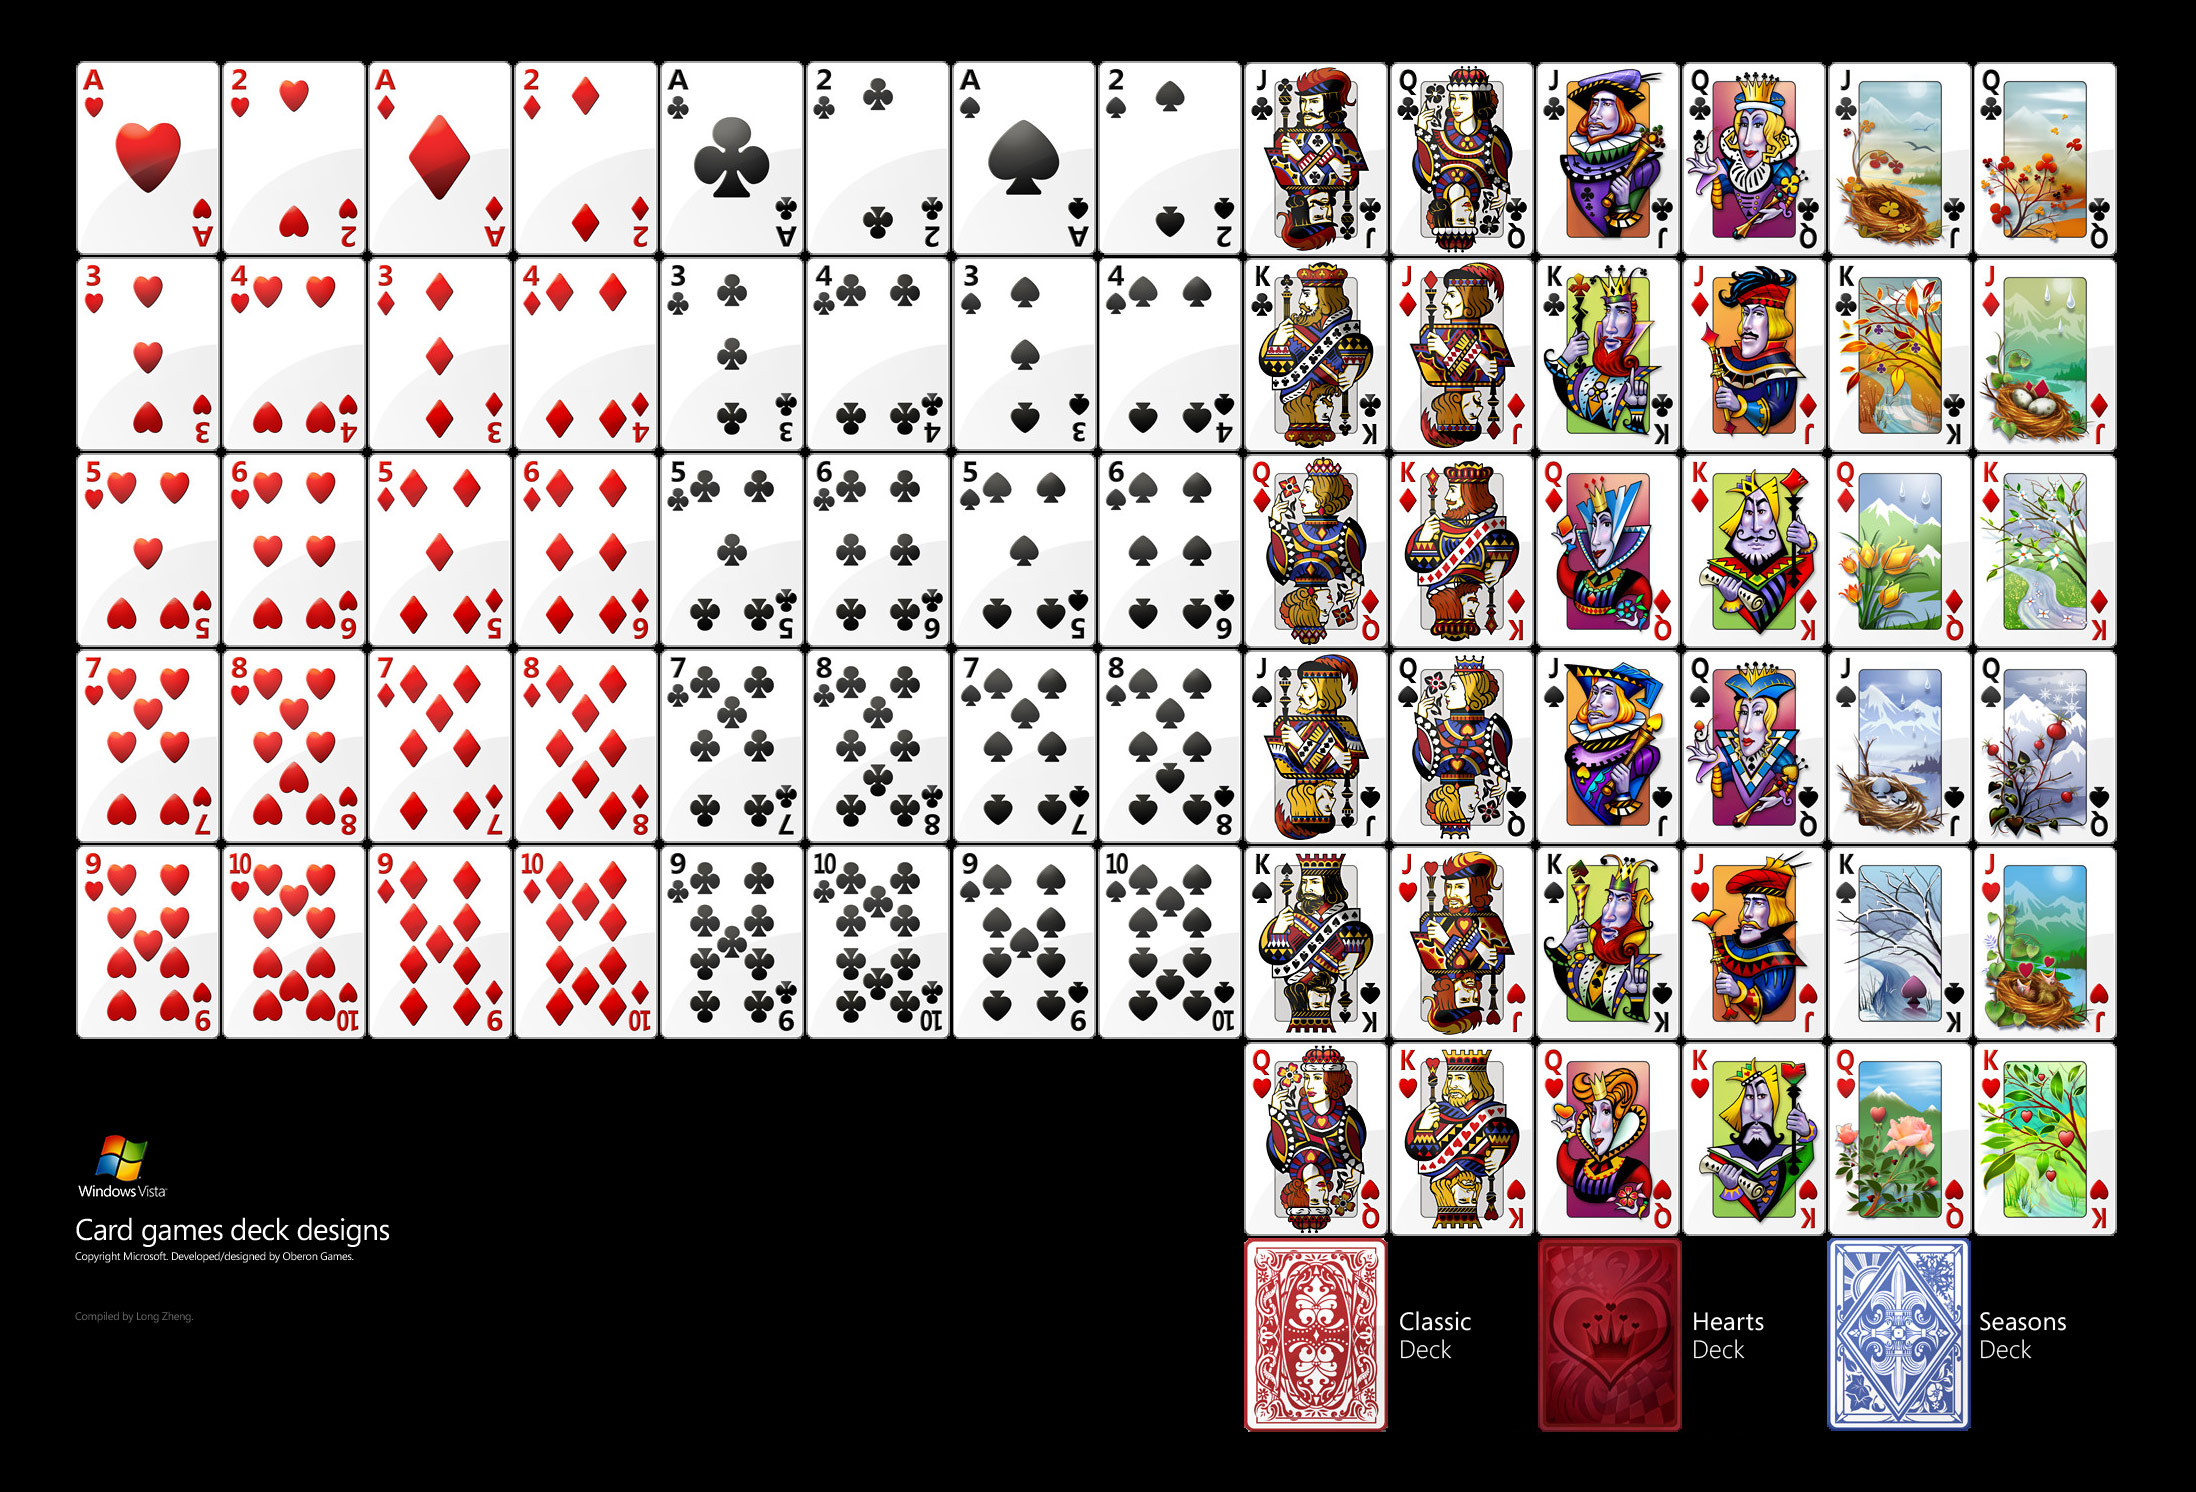
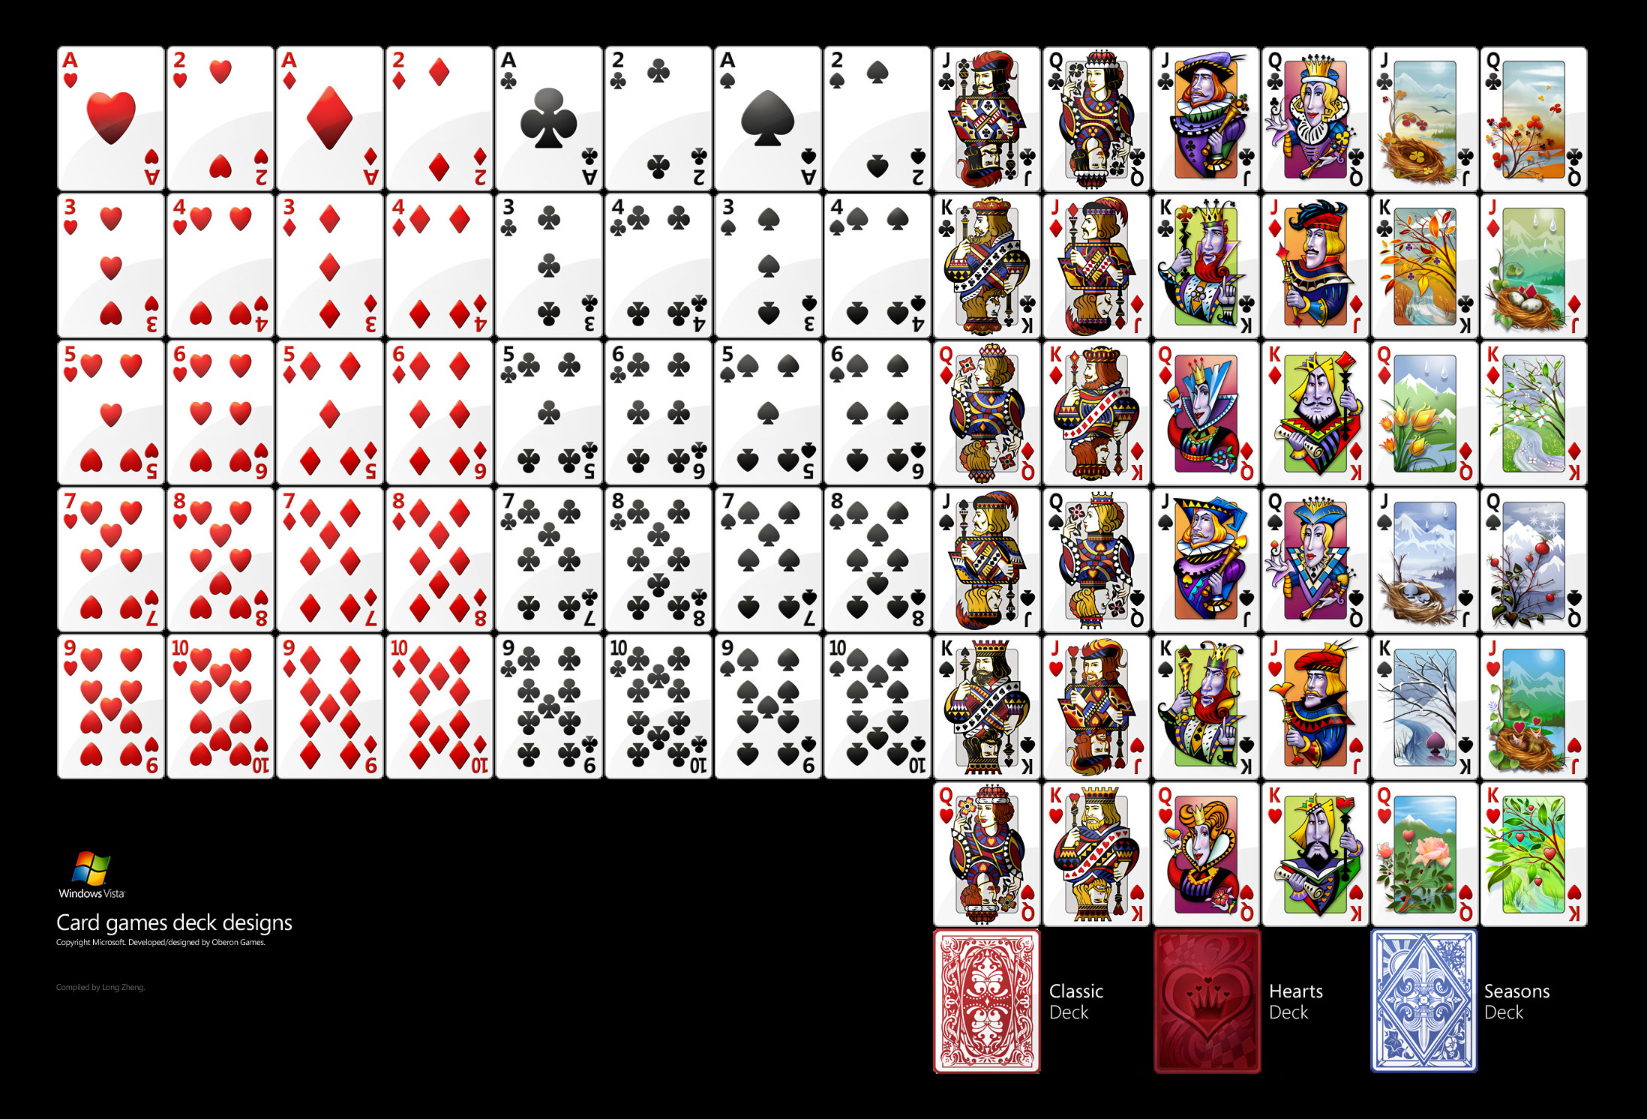
Исправлена рисовка карт

diff --git a/King/Controls/CardShape.xaml b/King/Controls/CardShape.xaml
@@ -1,12 +1,11 @@
 <UserControl x:Class="King.Controls.CardShape"
              xmlns="http://schemas.microsoft.com/winfx/2006/xaml/presentation"
              xmlns:x="http://schemas.microsoft.com/winfx/2006/xaml"
-             xmlns:mc="http://schemas.openxmlformats.org/markup-compatibility/2006" 
-             xmlns:d="http://schemas.microsoft.com/expression/blend/2008" 
-             xmlns:local="clr-namespace:King.Controls"
-             mc:Ignorable="d" 
-             d:DesignHeight="450" d:DesignWidth="800">
-
+             xmlns:d="http://schemas.microsoft.com/expression/blend/2008"
+             xmlns:mc="http://schemas.openxmlformats.org/markup-compatibility/2006"
+             d:DesignHeight="300"
+             d:DesignWidth="300"
+             mc:Ignorable="d">
     <UserControl.Resources>
         <Storyboard x:Key="aniFlipStart">
             <DoubleAnimationUsingKeyFrames BeginTime="00:00:00"
@@ -50,11 +49,10 @@
             </DoubleAnimationUsingKeyFrames>
         </Storyboard>
     </UserControl.Resources>
-
     <Canvas x:Name="LayoutRoot">
         <Canvas x:Name="CardCanvas"
-                Width="101"
-                Height="137"
+                Width="108"
+                Height="145.5"
                 RenderTransformOrigin="0.5,0.5">
             <Canvas.RenderTransform>
                 <TransformGroup>
@@ -73,7 +71,7 @@
                    MouseLeftButtonUp="ImgCardMouseLeftButtonUp"
                    MouseMove="ImgCardMouseMove"
                    RenderTransformOrigin="0.05,0.08"
-                   Source="/Resources/Cards1.JPG"
+                   Source="/Resources/Cards.JPG"
                    Stretch="None">
                 <Image.RenderTransform>
                     <TransformGroup>
@@ -86,14 +84,14 @@
                 <Image.Clip>
                     <RectangleGeometry RadiusX="8"
                                        RadiusY="8"
-                                       Rect="57,46,101,137" />
+                                       Rect="57, 45.75, 108, 145.5" />
                 </Image.Clip>
             </Image>
             <Rectangle x:Name="rectBorder"
                        Canvas.Left="-3"
                        Canvas.Top="-3"
-                       Width="109"
-                       Height="145"
+                       Width="114"
+                       Height="151.5"
                        Opacity="0.7"
                        RadiusX="8"
                        RadiusY="8"

diff --git a/King/MainWindow.xaml b/King/MainWindow.xaml
@@ -37,25 +37,25 @@
         <!--  Trick Decks  -->
         <Controls:DeckShape 
                 x:Name="Player1Trick"
-				Canvas.Left="415"
-				Canvas.Top="348" />
+				Canvas.Left="408"
+				Canvas.Top="348" Height="146" />
         <Controls:DeckShape x:Name="Player2Trick"
 							Canvas.Left="521"
-							Canvas.Top="277" />
+							Canvas.Top="269" Height="145" />
         <Controls:DeckShape x:Name="Player3Trick"
-							Canvas.Left="627"
-							Canvas.Top="348" />
+							Canvas.Left="634"
+							Canvas.Top="348" Height="145" />
         <Controls:DeckShape x:Name="Player4Trick"
 							Canvas.Left="521"
 							Canvas.Top="419" />
 
         <!--  Player Hand Decks  -->
-        <TextBlock Canvas.Left="32"
-				   Canvas.Top="245"
+        <TextBlock Canvas.Left="25"
+				   Canvas.Top="248"
 				   Width="134"
 				   Height="20"
 				   Style="{StaticResource DefaultLabelText}"
-				   Text="Player 1" />
+				   Text="Player 1" RenderTransformOrigin="0.088,0.287" />
         <Controls:DeckShape x:Name="Player1Hand"
 							Canvas.Left="25"
 							Canvas.Top="273"
@@ -63,7 +63,7 @@
 							CardSpacerY="20"
 							MaxCardsSpace="10" />
         <TextBlock Canvas.Left="398"
-				   Canvas.Top="173"
+				   Canvas.Top="175"
 				   Width="134"
 				   Height="20"
 				   Style="{StaticResource DefaultLabelText}"
@@ -74,24 +74,24 @@
 							CardSpacerX="20"
 							CardSpacerY="0"
 							MaxCardsSpace="10" />
-        <TextBlock Canvas.Top="245"
+        <TextBlock Canvas.Top="248"
 				   Canvas.Right="25"
 				   Width="90"
 				   Height="20"
 				   Style="{StaticResource DefaultLabelText}"
-				   Text="Player 3" Canvas.Left="1068" />
+				   Text="Player 3" Canvas.Left="1061" />
         <Controls:DeckShape x:Name="Player3Hand"
 							Canvas.Top="273"
 							Canvas.Right="25"
 							CardSpacerX="0"
 							CardSpacerY="20"
 							MaxCardsSpace="10" />
-        <TextBlock Canvas.Left="284"
+        <TextBlock Canvas.Left="279"
 				   Canvas.Bottom="225"
 				   Width="134"
 				   Height="20"
 				   Style="{StaticResource DefaultLabelText}"
-				   Text="Player 4" Canvas.Top="573" />
+				   Text="Player 4" Canvas.Top="568" RenderTransformOrigin="0.445,0.523" />
         <Controls:DeckShape x:Name="Player4Hand"
 							Canvas.Left="279"
 							Canvas.Bottom="25"

diff --git a/King/Controls/DeckShape.xaml b/King/Controls/DeckShape.xaml
@@ -1,18 +1,17 @@
 <UserControl x:Class="King.Controls.DeckShape"
              xmlns="http://schemas.microsoft.com/winfx/2006/xaml/presentation"
              xmlns:x="http://schemas.microsoft.com/winfx/2006/xaml"
-             xmlns:mc="http://schemas.openxmlformats.org/markup-compatibility/2006" 
-             xmlns:d="http://schemas.microsoft.com/expression/blend/2008" 
-             xmlns:local="clr-namespace:King.Controls"
-             mc:Ignorable="d" 
-             Width="101"
-             Height="137">
+             xmlns:d="http://schemas.microsoft.com/expression/blend/2008"
+             xmlns:mc="http://schemas.openxmlformats.org/markup-compatibility/2006"
+             Width="108"
+             Height="145.5"
+             mc:Ignorable="d">
     <Canvas x:Name="LayoutRoot">
         <Rectangle x:Name="rectBorderBack"
                    Canvas.Left="0"
                    Canvas.Top="0"
-                   Width="101"
-                   Height="137"
+                   Width="108"
+                   Height="145.5"
                    Fill="#00000000"
                    MouseEnter="RectBorderBackMouseEnter"
                    MouseLeave="RectBorderBackMouseLeave"
@@ -28,13 +27,16 @@
         <Rectangle x:Name="rectBorder"
                    Canvas.Left="-4"
                    Canvas.Top="-4"
-                   Width="109"
-                   Height="145"
+                   Width="116"
+                   Height="154"
                    Opacity="0.7"
                    RadiusX="10"
                    RadiusY="10"
                    Stroke="#FFFFF500"
                    StrokeThickness="5"
                    Visibility="Visible" />
+
     </Canvas>
 </UserControl>
+
+

diff --git a/King/Controls/CardShape.xaml.cs b/King/Controls/CardShape.xaml.cs
@@ -19,17 +19,17 @@ namespace King.Controls
 	{
 		#region Constants
 
-		public const double CardOrigX = 76;
+		public const double CardOrigX = 57;
 
-		public const double CardOrigY = 61;
+		public const double CardOrigY = 45.75;
 
-		public const double CardWidth = 101;
+		public const double CardWidth = 54 * 2;
 
-		public const double CardHeight = 137;
+		public const double CardHeight = 72.75 * 2;
 
-		public const double CardWidthRect = 101;
+		public const double CardWidthRect = 54.75 * 2;
 
-		public const double CardHeightRect = 137;
+		public const double CardHeightRect = 73.5 * 2;
 
 		#endregion
 
@@ -79,58 +79,42 @@ namespace King.Controls
 					//Define the card position in the cards image
 					if (Card.Number <= 10)
 					{
-						x = (Card.Number - 1 + 0.3) % 2;
+						x = (Card.Number - 1) % 2;
 						y = (Card.Number - 1) / 2;
 
 						switch (Card.Suit)
 						{
 							case CardSuit.Spades:
-							{
 								x += 6;
 								break;
-							}
 							case CardSuit.Hearts:
-							{
 								x += 0;
 								break;
-							}
 							case CardSuit.Diamonds:
-							{
 								x += 2;
 								break;
-							}
 							case CardSuit.Clubs:
-							{
 								x += 4;
 								break;
-							}
 						}
 					}
 					else
 					{
-						int number = Card.Number - 11;
+						int number = (Card.Number - 11);
 						switch (Card.Suit)
 						{
 							case CardSuit.Spades:
-							{
 								number += 6;
 								break;
-							}
 							case CardSuit.Hearts:
-							{
 								number += 9;
 								break;
-							}
 							case CardSuit.Diamonds:
-							{
 								number += 3;
 								break;
-							}
 							case CardSuit.Clubs:
-							{
 								number += 0;
 								break;
-							}
 						}
 
 						x = (number % 2) + 8;
@@ -140,14 +124,11 @@ namespace King.Controls
 				else
 				{
 					//Show back of the card
-					x = 8.22;
-					y = 6.13;
+					x = 8;
+					y = 6;
 				}
 
-				//Расположение карт на руках
-				((RectangleGeometry)imgCard.Clip).Rect = 
-					new Rect(x * CardWidthRect + CardOrigX, y * CardHeightRect + CardOrigY,
-					CardWidth, CardHeight);
+				((RectangleGeometry)imgCard.Clip).Rect = new Rect(x * CardWidthRect + CardOrigX, y * CardHeightRect + CardOrigY, CardWidth, CardHeight);
 				foreach (Transform tran in ((TransformGroup)imgCard.RenderTransform).Children)
 				{
 					if (tran.GetType() == typeof(TranslateTransform))
@@ -156,7 +137,6 @@ namespace King.Controls
 						tran.SetValue(TranslateTransform.YProperty, -y * CardHeightRect - CardOrigY);
 					}
 				}
-
 				imgCard.RenderTransformOrigin = new Point(0.05 + (x * 0.1), 0.08 + (y * 0.166666));
 			}
 		}

diff --git a/King.ViewModel/CardVM.cs b/King.ViewModel/CardVM.cs
@@ -34,7 +34,17 @@ namespace King.ViewModel
 			}
 		}
 
-		public CardSuit Suit { get; set; }
+		public CardSuit Suit
+		{
+			get
+			{
+				return _suit;
+			}
+			set
+			{
+				_suit = value;
+			}
+		}
 
 		public DeckVM Deck
 		{
@@ -84,9 +94,29 @@ namespace King.ViewModel
 			}
 		}
 
-		public bool Enabled { get; set; }
+		public bool Enabled
+		{
+			get
+			{
+				return _enabled;
+			}
+			set
+			{
+				_enabled = value;
+			}
+		}
 
-		public bool IsDragable { get; set; }
+		public bool IsDragable
+        {
+			get 
+			{ 
+				return _isDragable; 
+			}
+			set 
+			{
+				_isDragable = value; 
+			}
+		}
 
 		public CardColor Color
 		{

diff --git a/King.ViewModel/DeckVM.cs b/King.ViewModel/DeckVM.cs
@@ -30,8 +30,14 @@ namespace King.ViewModel
 
         public bool Enabled
         {
-            get { return _enabled; }
-            set { _enabled = value; }
+            get 
+            { 
+                return _enabled; 
+            }
+            set 
+            { 
+                _enabled = value; 
+            }
         }
 
         public GameVM Game
